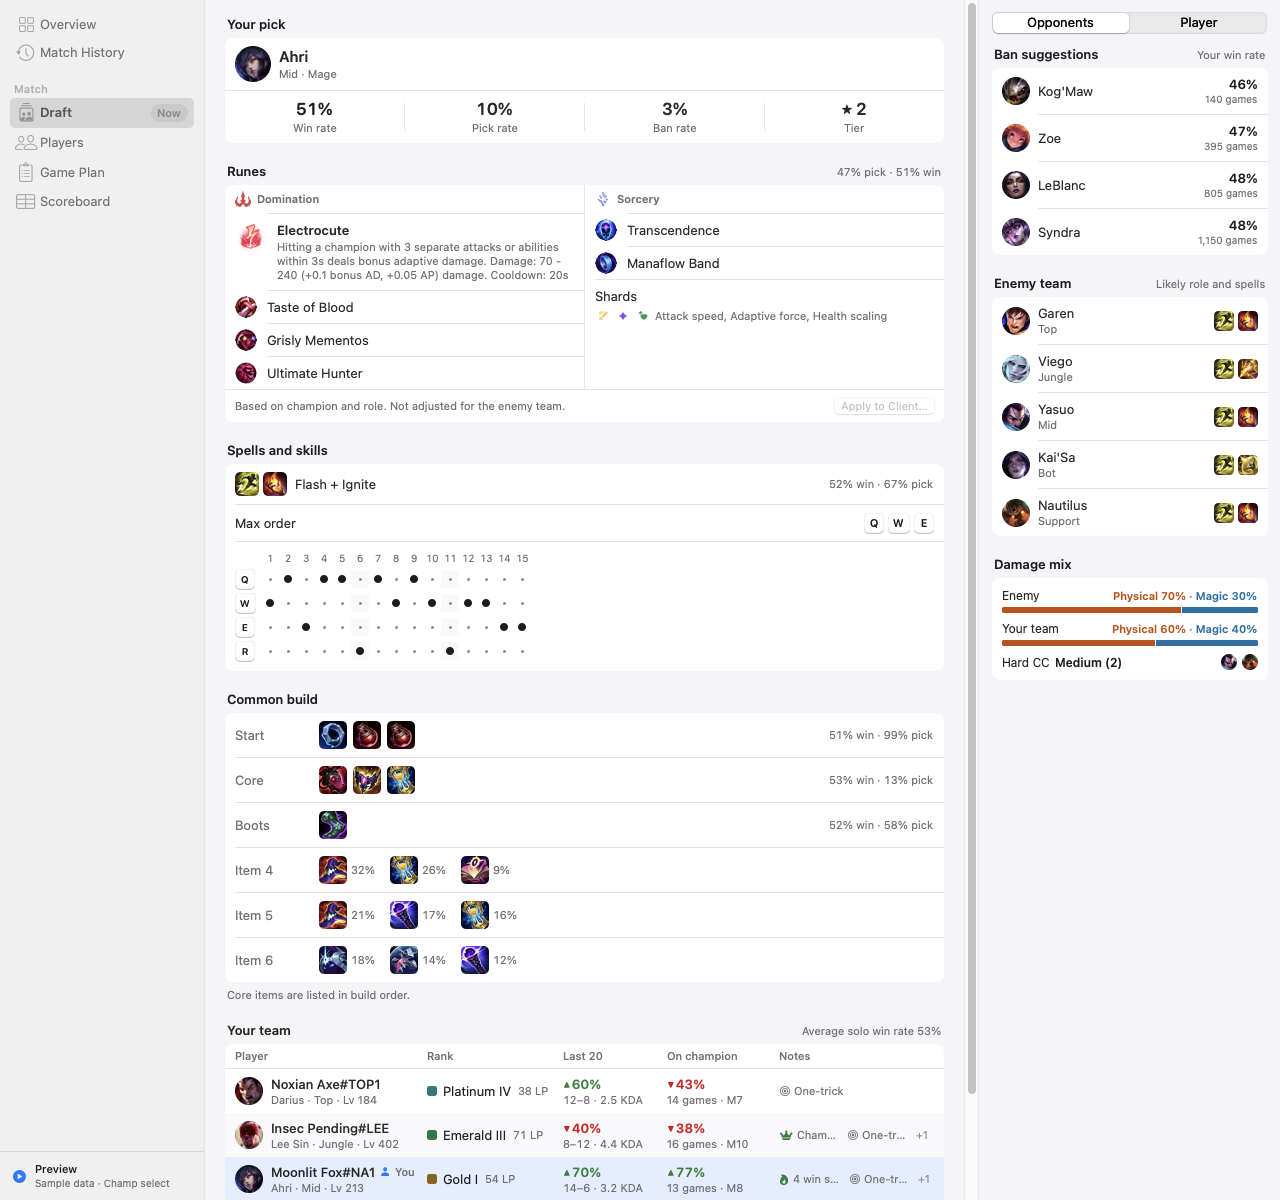
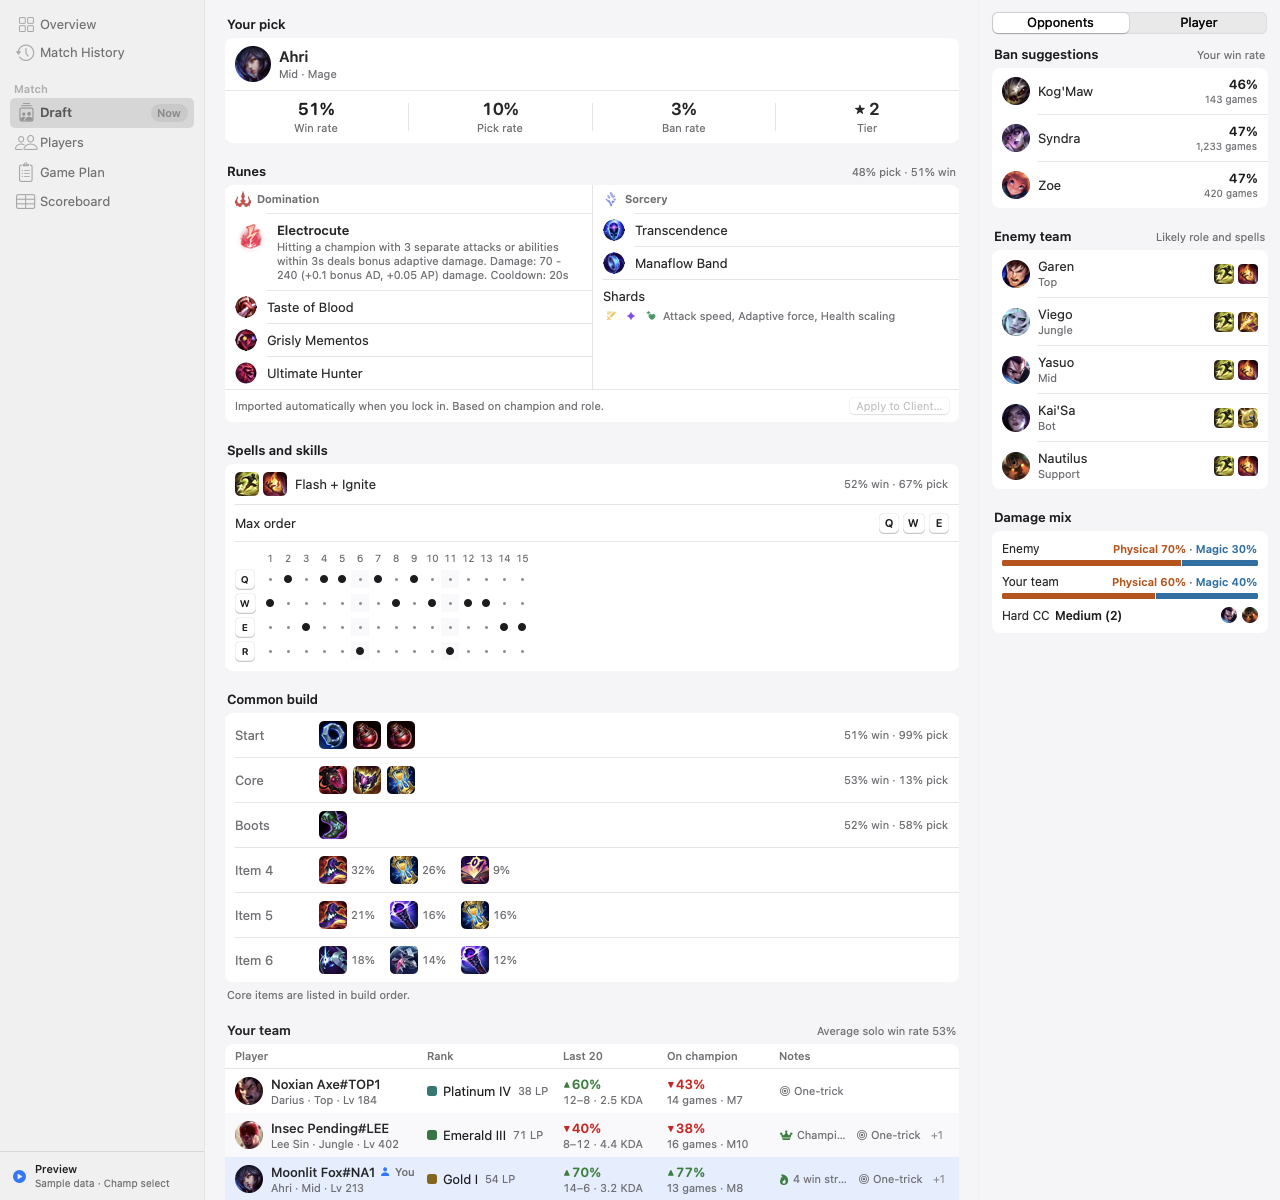
Rename to Recall; import runes on lock-in
- New name: Recall (bundle id local.recall.app, repo Aye-Shun/recall)
- When you lock in a champion (in ARAM: whenever your champion changes),
  Recall imports the common rune page for it and selects it; on by default,
  with a switch in Settings > General. Status shows in Draft's Runes section
- Draft shows runes in ARAM too

diff --git a/Sources/Recall/Views/OverviewAndSettings.swift b/Sources/Recall/Views/OverviewAndSettings.swift
@@ -15,7 +15,7 @@ struct OverviewView: View {
             } header: {
                 header
             } footer: {
-                Text("Sightline reads only the League client's local APIs. It never injects code or reads game memory.")
+                Text("Recall reads only the League client's local APIs. It never injects code or reads game memory.")
                     .foregroundStyle(Palette.secondaryLabel)
             }
 
@@ -122,7 +122,15 @@ struct GeneralSettings: View {
             Section {
                 Toggle("Show Draft when champ select starts", isOn: $settings.autoSwitchToLive)
             } footer: {
-                Text("Sightline keeps running in the menu bar after you close its window, so panels still appear in game.")
+                Text("Recall keeps running in the menu bar after you close its window, so panels still appear in game.")
+                    .foregroundStyle(Palette.secondaryLabel)
+            }
+            Section {
+                Toggle("Import runes when you lock in a champion", isOn: $settings.autoImportRunes)
+            } header: {
+                Text("Runes")
+            } footer: {
+                Text("Recall puts the common rune page for your champion and role into League and selects it. It creates or replaces only its own \"Recall: <champion>\" page; your other pages are never changed. In ARAM it follows rerolls and swaps.")
                     .foregroundStyle(Palette.secondaryLabel)
             }
             Section("Text size") {
@@ -276,7 +284,7 @@ struct PrivacySettings: View {
         ("desktopcomputer", "Player data", "Read from your League client on this Mac. Your client credentials never leave it."),
         ("globe", "Builds and opponents", "From OP.GG's public API. Only champion names, roles and the game mode are sent."),
         ("photo.on.rectangle", "Icons and game data", "From Riot's Data Dragon, plus a few rune icons from CommunityDragon."),
-        ("square.and.pencil", "Changes to your client", "Only a rune page you confirm. No accounts, no tracking."),
+        ("square.and.pencil", "Changes to your client", "Only Recall's own rune page, when you lock in (if rune import is on) or click Apply. No accounts, no tracking."),
     ]
 
     var body: some View {
@@ -302,7 +310,7 @@ struct ReleaseNotesView: View {
     private let releases: [(String, [String])] = [
         ("1.0", [
             "Match History: your recent games with builds and stats, filters, and full game details",
-            "Draft: rune page with keystone details and confirmed one-click apply",
+            "Draft: rune page with keystone details; imported automatically when you lock in, or applied with one click",
             "Draft: common build, spells, skill order, ban suggestions, enemy spells by likely role, duo synergy",
             "Players: rank, LP, season and recent win rates, champion stats, mastery, streak and smurf notes, premade detection",
             "In game: one HUD tile with live Spell Timers, CS per minute, Gold Diff and Next Item, plus Lanes at the loading screen",
@@ -313,7 +321,7 @@ struct ReleaseNotesView: View {
     var body: some View {
         Form {
             ForEach(releases, id: \.0) { version, notes in
-                Section("Sightline \(version)") {
+                Section("Recall \(version)") {
                     ForEach(notes, id: \.self) { Text($0) }
                 }
             }

diff --git a/Sources/Recall/Services/GameMonitor.swift b/Sources/Recall/Services/GameMonitor.swift
@@ -91,6 +91,14 @@ final class GameMonitor {
     private(set) var live: LiveGameData?
     private(set) var liveReceivedAt = Date.distantPast
     private(set) var profiles: [String: ProfileLoad] = [:]
+    private(set) var runeImport: RuneImportStatus = .idle
+
+    enum RuneImportStatus: Equatable {
+        case idle
+        case importing(champion: String)
+        case imported(champion: String)
+        case failed(String)
+    }
 
     /// Called on every phase transition; the overlay uses it to show/hide itself.
     @ObservationIgnored var onPhaseChange: (@MainActor (GamePhase) -> Void)?
@@ -101,6 +109,8 @@ final class GameMonitor {
     @ObservationIgnored private var attemptedRiotIDs: Set<String> = []
     @ObservationIgnored private var connectAttempts = 0
     @ObservationIgnored private var phaseFailures = 0
+    /// The champion runes were last imported for in this champ select.
+    @ObservationIgnored private var runeImportChampion: Int?
     @ObservationIgnored private var lastSessionFetch = Date.distantPast
 
     // MARK: - Derived state
@@ -374,6 +384,8 @@ final class GameMonitor {
         if newPhase == .champSelect {
             champSelect = []
             enemyChampSelect = []
+            runeImportChampion = nil
+            runeImport = .idle
             if status != .demo {
                 queueId = nil
                 mapId = nil
@@ -423,6 +435,40 @@ final class GameMonitor {
             )
         }
         if enemies != enemyChampSelect { enemyChampSelect = enemies }
+
+        // Rune import: once you lock in. ARAM has no lock-in (champions are assigned, then
+        // rerolled or swapped), so there it follows your current champion.
+        let locked: Int?
+        if gameMode == .aram {
+            locked = slots.first(where: \.isLocalPlayer)?.championId
+        } else {
+            locked = (session.actions ?? []).joined().compactMap(\.value).first {
+                $0.actorCellId == session.localPlayerCellId && $0.type == "pick" && $0.completed == true
+            }?.championId.nonZero
+        }
+        if let locked, locked != runeImportChampion, AppSettings.shared.autoImportRunes {
+            runeImportChampion = locked
+            Task { await importRunes(for: locked) }
+        }
+    }
+
+    /// Puts the common rune page for a champion into League and selects it.
+    func importRunes(for champion: Int) async {
+        let mode = gameMode
+        guard mode.metaMode != nil, let name = DataDragon.shared.champion(champion)?.name else { return }
+        runeImport = .importing(champion: name)
+        let position = myPosition
+        await MetaStore.shared.ensureChampion(champion, position, mode)
+        guard let page = MetaStore.shared.champion(champion, position, mode)?.value?.runes, page.isComplete else {
+            runeImport = .failed("No rune data for \(name)")
+            return
+        }
+        do {
+            try await applyRunes(page, championName: name)
+            runeImport = .imported(champion: name)
+        } catch {
+            runeImport = .failed(error.localizedDescription)
+        }
     }
 
     private func refreshGame(_ client: LCUClient) async {

diff --git a/Sources/Recall/Views/DraftView.swift b/Sources/Recall/Views/DraftView.swift
@@ -23,9 +23,7 @@ struct DraftView: View {
             YourPickSection(champion: champion, position: position, load: load)
 
             if champion != nil, mode.metaMode != nil {
-                if mode == .summonersRift {
-                    RunesSection(champion: champion, load: load)
-                }
+                RunesSection(champion: champion, load: load)
                 SpellsAndSkillsSection(load: load)
                 CommonBuildSection(load: load, mode: mode)
             }
@@ -124,7 +122,9 @@ private struct RunesSection: View {
 
     private func footer(_ page: OPRunePage) -> some View {
         InsetRow {
-            Text("Based on champion and role. Not adjusted for the enemy team.")
+            Text(AppSettings.shared.autoImportRunes
+                 ? "Imported automatically when you lock in. Based on champion and role."
+                 : "Based on champion and role. Not adjusted for the enemy team.")
                 .font(.system(size: 11))
                 .foregroundStyle(Palette.secondaryLabel)
             Spacer()
@@ -136,7 +136,18 @@ private struct RunesSection: View {
                     .foregroundStyle(Palette.positive)
             case .failed(let message):
                 Text(message).font(.system(size: 11)).foregroundStyle(Palette.negative).lineLimit(2)
-            case .idle: EmptyView()
+            case .idle:
+                // Automatic import (on lock-in) reports here.
+                switch monitor.runeImport {
+                case .importing: ProgressView().controlSize(.small)
+                case .imported(let name):
+                    Label("Imported for \(name)", systemImage: "checkmark.circle.fill")
+                        .font(.system(size: 11, weight: .medium))
+                        .foregroundStyle(Palette.positive)
+                case .failed(let message):
+                    Text(message).font(.system(size: 11)).foregroundStyle(Palette.negative).lineLimit(2)
+                case .idle: EmptyView()
+                }
             }
             Button("Apply to Client…") { confirming = true }
                 .buttonStyle(.borderedProminent)
@@ -148,7 +159,7 @@ private struct RunesSection: View {
             Button("Add and Select") { apply(page) }
             Button("Cancel", role: .cancel) {}
         } message: {
-            Text("Sightline creates a page named “Sightline: \(DataDragon.shared.champion(champion)?.name ?? "")” and selects it. Later uses replace only that page; your own pages are never changed.")
+            Text("Recall creates a page named “Recall: \(DataDragon.shared.champion(champion)?.name ?? "")” and selects it. Later uses replace only that page; your own pages are never changed.")
         }
     }
 

diff --git a/Sources/Recall/App/RecallApp.swift b/Sources/Recall/App/RecallApp.swift
@@ -9,16 +9,16 @@ enum Entry {
         if let index = args.firstIndex(of: "--snapshot"), index + 1 < args.count {
             SnapshotRunner.run(output: args[index + 1], arguments: args)
         } else {
-            SightlineApp.main()
+            RecallApp.main()
         }
     }
 }
 
-struct SightlineApp: App {
+struct RecallApp: App {
     @NSApplicationDelegateAdaptor(AppDelegate.self) private var appDelegate
 
     var body: some Scene {
-        Window("Sightline", id: "main") {
+        Window("Recall", id: "main") {
             RootView().withAppEnvironment()
         }
         .defaultSize(width: 1240, height: 820)
@@ -44,7 +44,7 @@ struct SightlineApp: App {
             SettingsView().withAppEnvironment()
         }
 
-        MenuBarExtra("Sightline", systemImage: "binoculars") {
+        MenuBarExtra("Recall", systemImage: "binoculars") {
             MenuBarContent().withAppEnvironment()
         }
     }
@@ -54,7 +54,7 @@ private struct ReleaseNotesCommand: View {
     @Environment(\.openWindow) private var openWindow
 
     var body: some View {
-        Button("Sightline Release Notes") { openWindow(id: "release-notes") }
+        Button("Recall Release Notes") { openWindow(id: "release-notes") }
     }
 }
 
@@ -107,7 +107,7 @@ struct MenuBarContent: View {
         Text(monitor.statusText)
         Text(monitor.phase.label)
         Divider()
-        Button("Open Sightline") {
+        Button("Open Recall") {
             openWindow(id: "main")
             NSApp.activate()
         }
@@ -126,7 +126,7 @@ struct MenuBarContent: View {
         SettingsLink { Text("Settings…") }
             .keyboardShortcut(",", modifiers: .command)
         Divider()
-        Button("Quit Sightline") { NSApp.terminate(nil) }
+        Button("Quit Recall") { NSApp.terminate(nil) }
             .keyboardShortcut("q")
     }
 }

diff --git a/Sources/Recall/LCU/RunePageWriter.swift b/Sources/Recall/LCU/RunePageWriter.swift
@@ -1,7 +1,7 @@
 import Foundation
 
-/// Writes one app-owned rune page ("Sightline: <champion>") and selects it. This is the only
-/// write Sightline makes to the client, and it only runs after the user confirms it.
+/// Writes one app-owned rune page ("Recall: <champion>") and selects it. This is the only
+/// write Recall makes to the client, and it only runs after the user confirms it.
 struct RunePageWriter {
     enum WriteError: LocalizedError {
         case incompletePage
@@ -15,7 +15,7 @@ struct RunePageWriter {
         }
     }
 
-    static let namePrefix = "Sightline: "
+    static let namePrefix = "Recall: "
     private static let pageIDKey = "runePageID"
 
     let client: LCUClient
@@ -25,8 +25,8 @@ struct RunePageWriter {
             throw WriteError.incompletePage
         }
 
-        // Replace only the page Sightline created last time (matched by id, not just by name), so
-        // a page the player happened to name "Sightline: …" is never touched.
+        // Replace only the page Recall created last time (matched by id, not just by name), so
+        // a page the player happened to name "Recall: …" is never touched.
         let pages = (try? await client.get("/lol-perks/v1/pages", as: [LCUPerkPage].self)) ?? []
         let ownID = UserDefaults.standard.object(forKey: Self.pageIDKey) as? Int
         if let ownID, let existing = pages.first(where: { $0.id == ownID && $0.name?.hasPrefix(Self.namePrefix) == true && $0.isDeletable != false }) {

diff --git a/Sources/Recall/Overlay/OverlayManager.swift b/Sources/Recall/Overlay/OverlayManager.swift
@@ -40,7 +40,7 @@ final class OverlayManager {
     /// Diagnostics only: stands in for the Tab key (previews otherwise always show everything).
     @ObservationIgnored var debugTabOverride: Bool?
 
-    /// Key polling only runs during a game; outside games Sightline does no periodic overlay work
+    /// Key polling only runs during a game; outside games Recall does no periodic overlay work
     /// and the windows are released.
     func handlePhase(_ phase: GamePhase) {
         if phase.isInGame {
@@ -278,7 +278,7 @@ final class OverlayWindow: NSPanel {
 
     func useLayout(kind: OverlayWindowKind, layout: String) {
         // "v2": the HUD moved to the left side, so earlier saved spots shouldn't carry over.
-        let name = "Sightline.overlay.v2.\(kind.rawValue).\(layout)"
+        let name = "Recall.overlay.v2.\(kind.rawValue).\(layout)"
         setFrameAutosaveName("")
         if !setFrameUsingName(name) { placeAtDefault(kind: kind) }
         setFrameAutosaveName(name)
@@ -341,7 +341,7 @@ enum KeyState {
 }
 
 enum GameWindow {
-    /// True when League (or Sightline itself) is the frontmost app, so panels don't float over
+    /// True when League (or Recall itself) is the frontmost app, so panels don't float over
     /// other apps when the player alt-tabs out of a game.
     @MainActor
     static var isFrontmost: Bool {

diff --git a/Sources/Recall/LCU/LCUModels.swift b/Sources/Recall/LCU/LCUModels.swift
@@ -1,6 +1,6 @@
 import Foundation
 
-// Decoding models for the LCU endpoints Sightline uses. Every field is optional:
+// Decoding models for the LCU endpoints Recall uses. Every field is optional:
 // the LCU is undocumented and Riot changes payloads between patches, so a missing
 // field should degrade a stat, not fail the whole response.
 
@@ -139,6 +139,15 @@ struct LCUChampSelectSession: Decodable {
     var localPlayerCellId: Int?
     var myTeam: [LCUChampSelectPlayer]?
     var theirTeam: [LCUChampSelectPlayer]?
+    /// Pick and ban turns, grouped by round. A completed "pick" by your cell is your lock-in.
+    var actions: [[Lossy<LCUChampSelectAction>]]?
+}
+
+struct LCUChampSelectAction: Decodable {
+    var actorCellId: Int?
+    var championId: Int?
+    var completed: Bool?
+    var type: String?
 }
 
 struct LCUChampSelectPlayer: Decodable {
@@ -149,7 +158,7 @@ struct LCUChampSelectPlayer: Decodable {
     var assignedPosition: String?
     var gameName: String?
     var tagLine: String?
-    /// "HIDDEN" in ranked queues. Sightline respects this and does not look the player up.
+    /// "HIDDEN" in ranked queues. Recall respects this and does not look the player up.
     var nameVisibilityType: String?
 }
 

diff --git a/Sources/Recall/App/AppSettings.swift b/Sources/Recall/App/AppSettings.swift
@@ -91,6 +91,8 @@ final class AppSettings {
     var textScale: Double { didSet { defaults.set(textScale, forKey: "textScale") } }
     var onlyOverGame: Bool { didSet { defaults.set(onlyOverGame, forKey: "onlyOverGame") } }
     var autoSwitchToLive: Bool { didSet { defaults.set(autoSwitchToLive, forKey: "autoSwitchToLive") } }
+    /// Put the common rune page into League as soon as you lock in a champion.
+    var autoImportRunes: Bool { didSet { defaults.set(autoImportRunes, forKey: "autoImportRunes") } }
 
     private let defaults = UserDefaults.standard
 
@@ -118,6 +120,7 @@ final class AppSettings {
         textScale = d.object(forKey: "textScale") as? Double ?? 1.0
         onlyOverGame = d.object(forKey: "onlyOverGame") as? Bool ?? true
         autoSwitchToLive = d.object(forKey: "autoSwitchToLive") as? Bool ?? true
+        autoImportRunes = d.object(forKey: "autoImportRunes") as? Bool ?? true
     }
 
     static let defaultPanels: Set<OverlayPanelKind> = [.scout, .cooldowns, .farm, .gold, .build]

diff --git a/Sources/Recall/Views/DesignSystem.swift b/Sources/Recall/Views/DesignSystem.swift
@@ -1,7 +1,7 @@
 import AppKit
 import SwiftUI
 
-// Sightline's look is deliberately plain macOS: neutral system grays, the user's own accent
+// Recall's look is deliberately plain macOS: neutral system grays, the user's own accent
 // color, flat grouped sections with inset separators, sentence-case headers, SF Pro text and
 // SF Pro Rounded numerals. The main window follows light/dark; overlay panels are fixed dark HUDs.
 
@@ -129,7 +129,7 @@ extension EnvironmentValues {
 // MARK: - Typography
 
 extension Font {
-    /// SF Pro Rounded with tabular digits: Sightline's numeral style.
+    /// SF Pro Rounded with tabular digits: Recall's numeral style.
     static func numeral(_ size: CGFloat, _ weight: Font.Weight = .semibold) -> Font {
         .system(size: size, weight: weight, design: .rounded).monospacedDigit()
     }

diff --git a/Sources/Recall/Overlay/HotKeys.swift b/Sources/Recall/Overlay/HotKeys.swift
@@ -28,7 +28,7 @@ final class HotKeys {
         let id = UInt32(handlers.count + 1)
         handlers[id] = handler
         var reference: EventHotKeyRef?
-        let hotKeyID = EventHotKeyID(signature: OSType(0x5347_4854), id: id) // 'SGHT'
+        let hotKeyID = EventHotKeyID(signature: OSType(0x5243_4C4C), id: id) // 'RCLL'
         let status = RegisterEventHotKey(keyCode, modifiers, hotKeyID, GetApplicationEventTarget(), 0, &reference)
         if status == noErr, let reference {
             references.append(reference)

diff --git a/Sources/Recall/Views/RootView.swift b/Sources/Recall/Views/RootView.swift
@@ -305,7 +305,7 @@ struct SidebarStatus: View {
 struct LeagueNotRunningView: View {
     var body: some View {
         ContentUnavailableView("League Isn't Running", systemImage: "bolt.horizontal.circle",
-                               description: Text("Open League of Legends and sign in. Sightline connects on its own, with no account or API key."))
+                               description: Text("Open League of Legends and sign in. Recall connects on its own, with no account or API key."))
     }
 }
 

diff --git a/Sources/Recall/Meta/OPGGClient.swift b/Sources/Recall/Meta/OPGGClient.swift
@@ -107,7 +107,7 @@ actor OPGGClient {
 enum DiskCache {
     private static var directory: URL? {
         guard let base = FileManager.default.urls(for: .cachesDirectory, in: .userDomainMask).first else { return nil }
-        let dir = base.appendingPathComponent("Sightline/opgg", isDirectory: true)
+        let dir = base.appendingPathComponent("Recall/opgg", isDirectory: true)
         try? FileManager.default.createDirectory(at: dir, withIntermediateDirectories: true)
         return dir
     }
